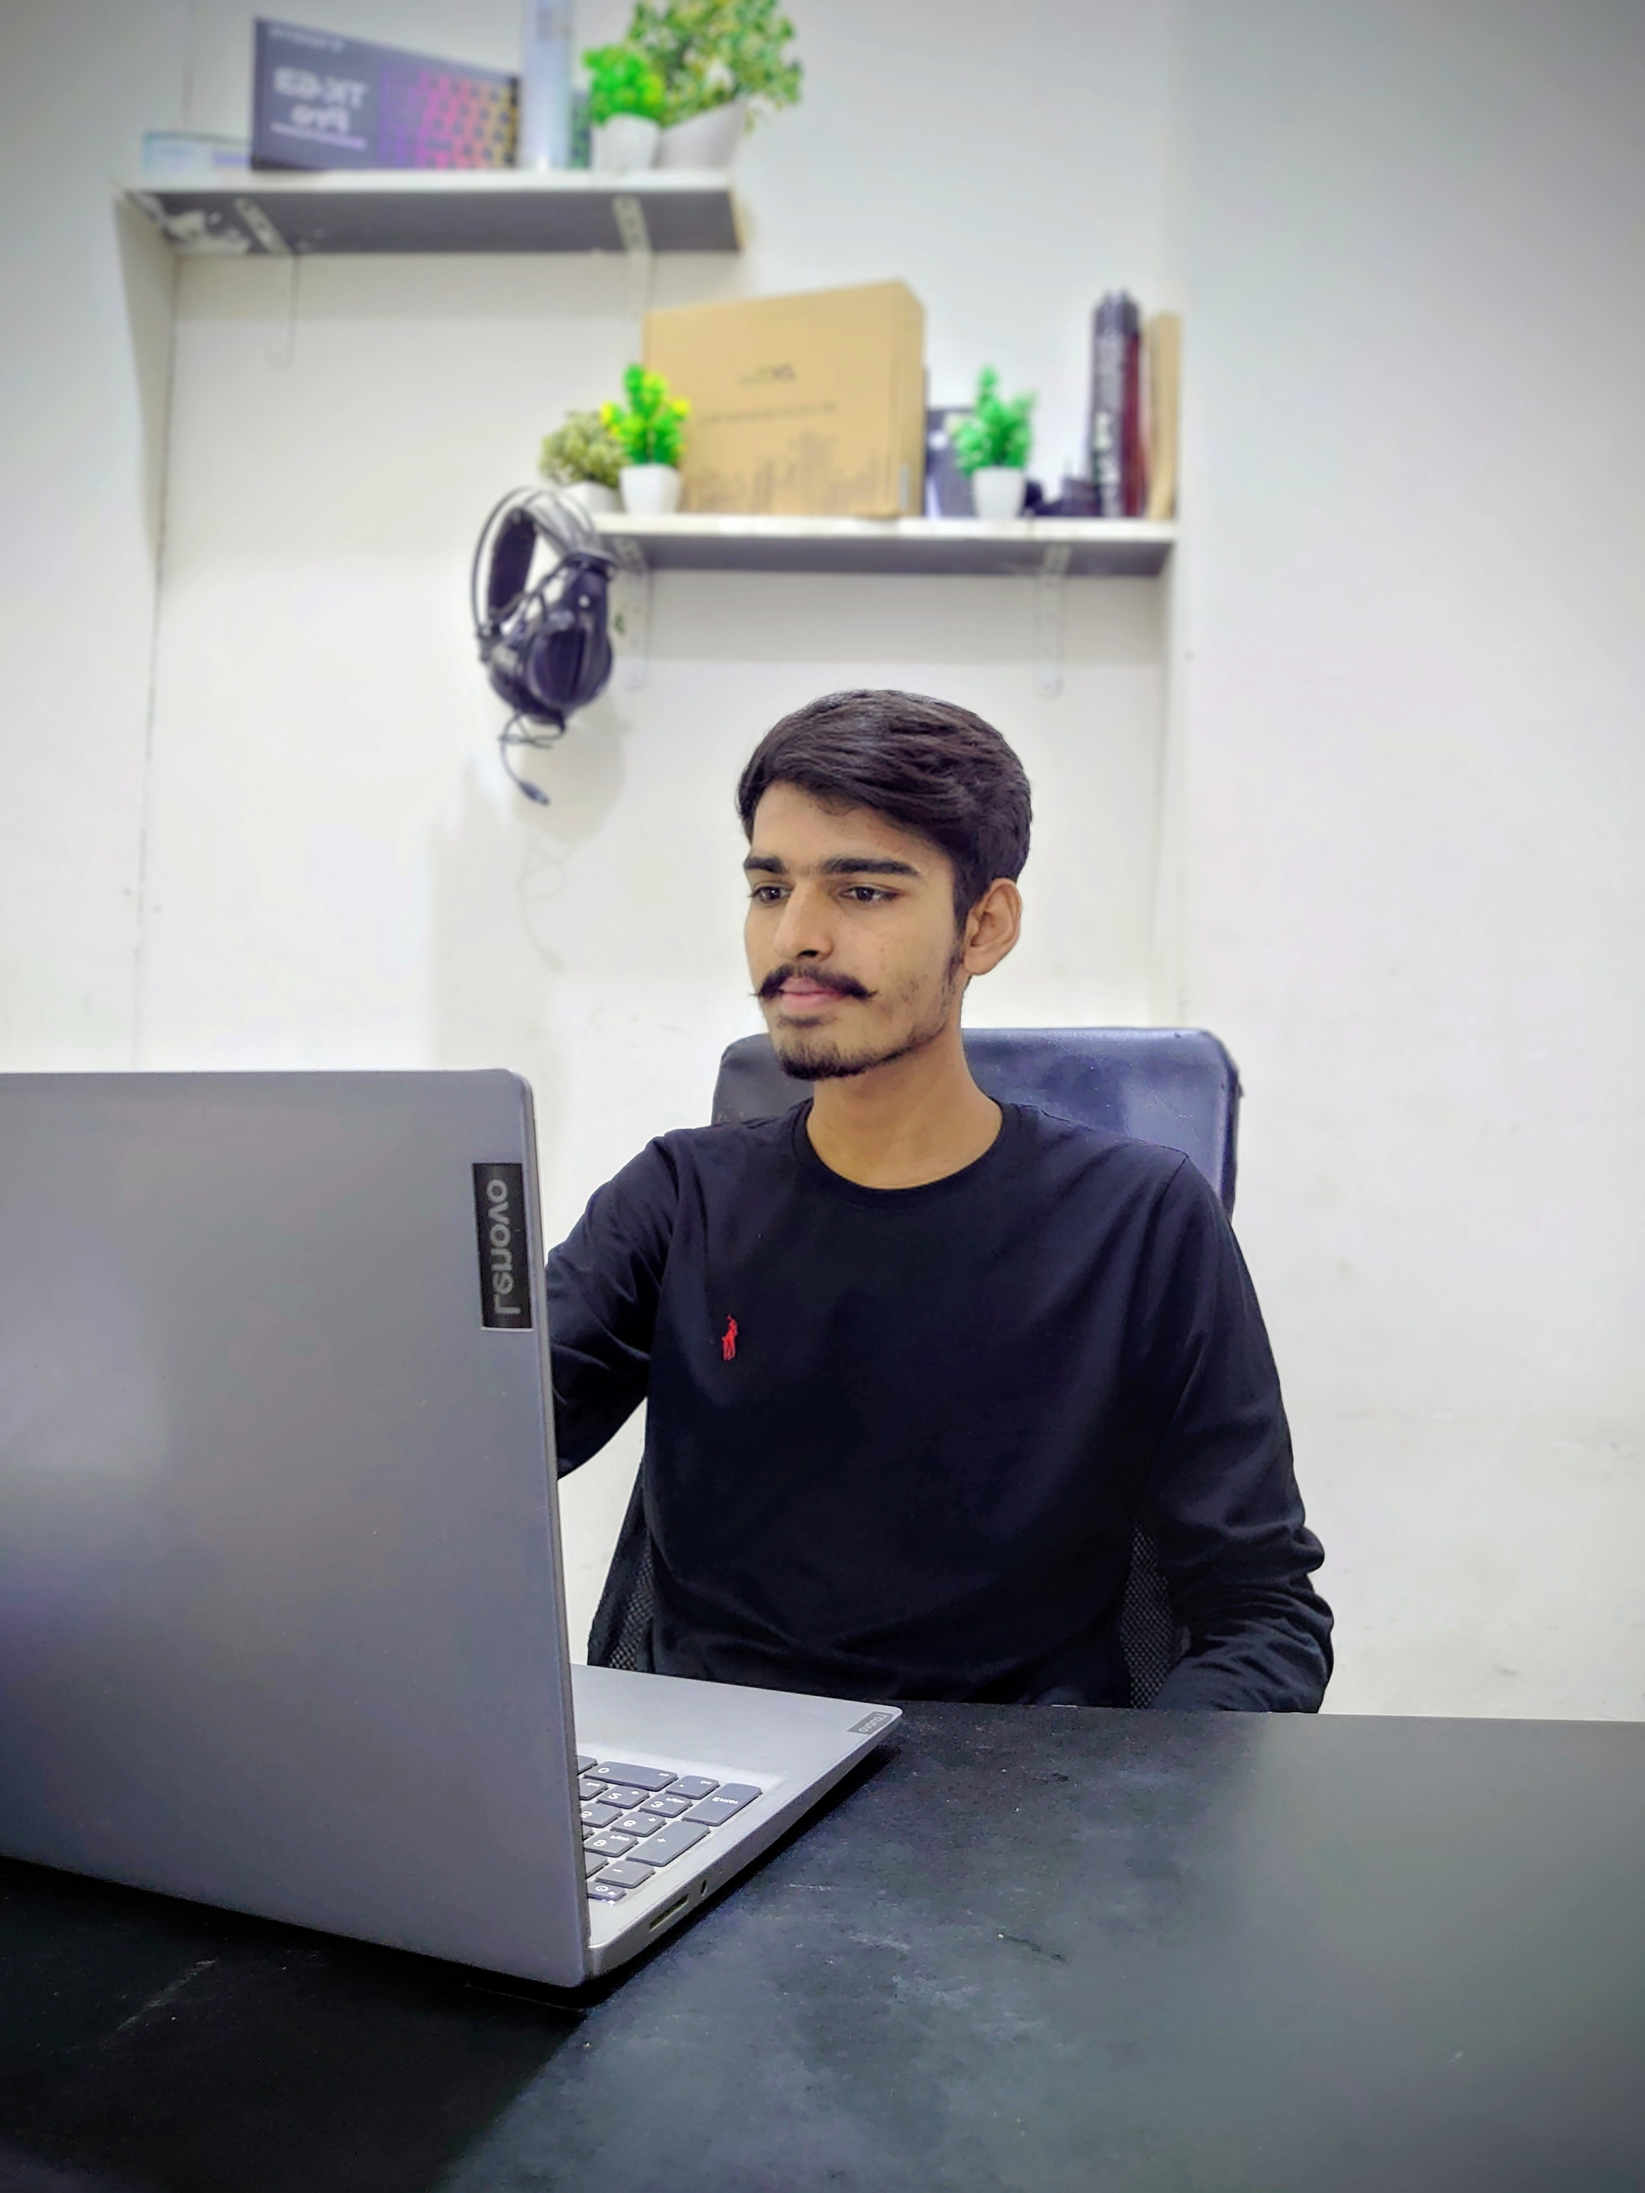
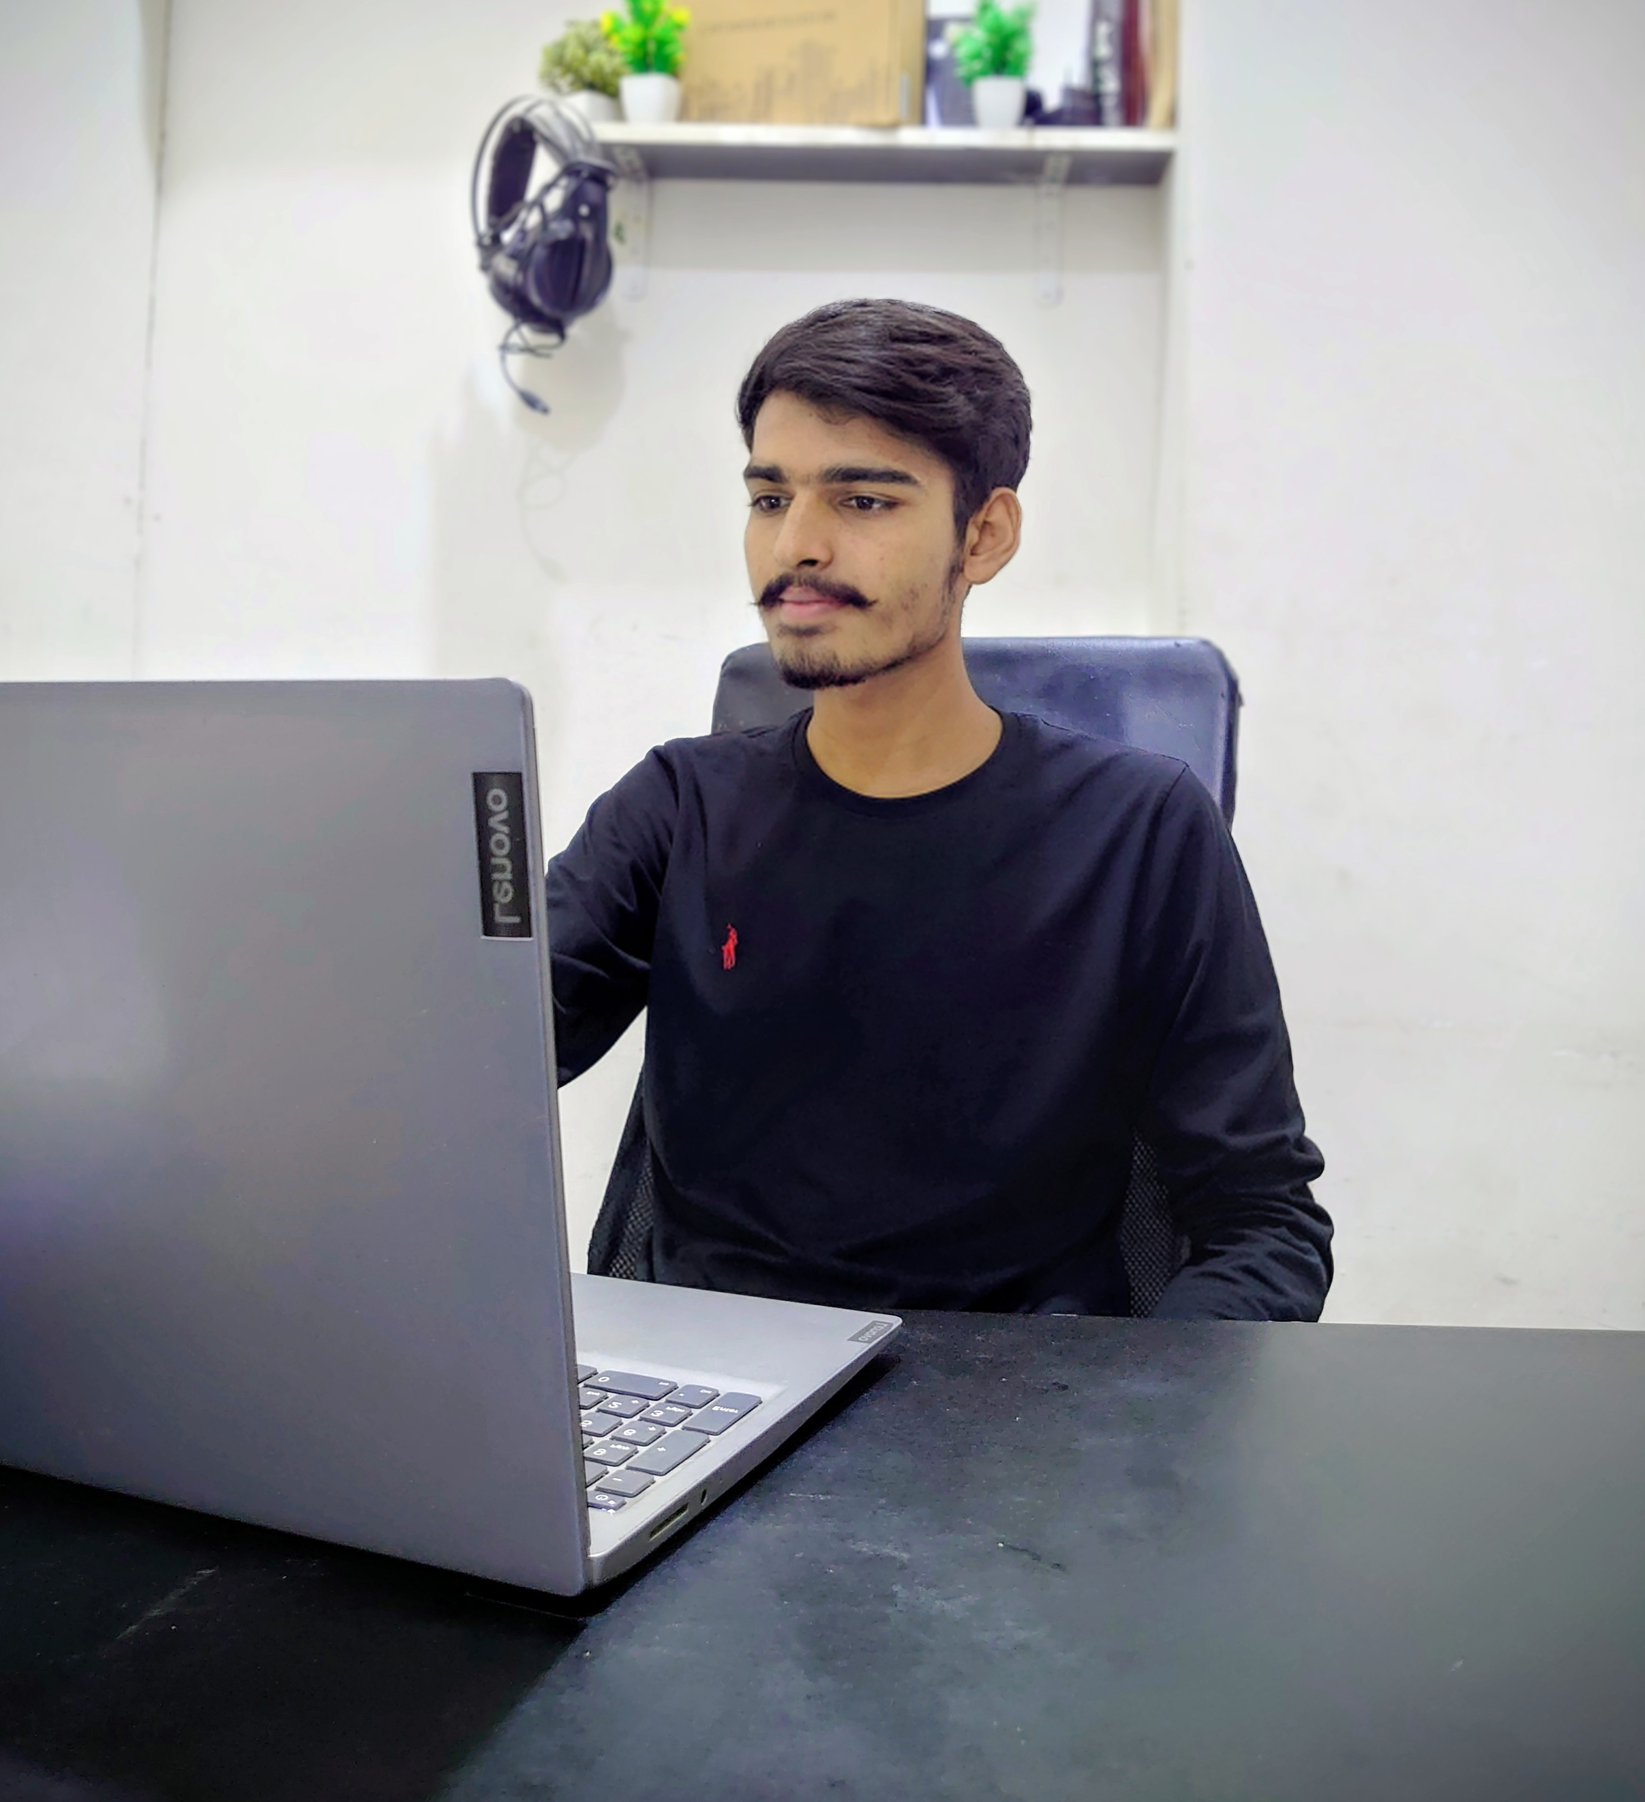
fix: update team member image path to new filename for Sardar Ubaidullah

diff --git a/data/shared.data.ts b/data/shared.data.ts
@@ -10,7 +10,7 @@ export const team = [
     name: "Sardar Ubaidullah",
     role: "CEO & Co-Founder",
     initials: "SU",
-    image: "/assets/team/ubaid.jpg",
+    image: "/assets/team/ubaid - Copy.jpg",
     linkedin: "https://www.linkedin.com/in/sardar-ubaidullah-51b593375",
     twitter: "#",
     email: "dev.sardarubaid@gmail.com",
